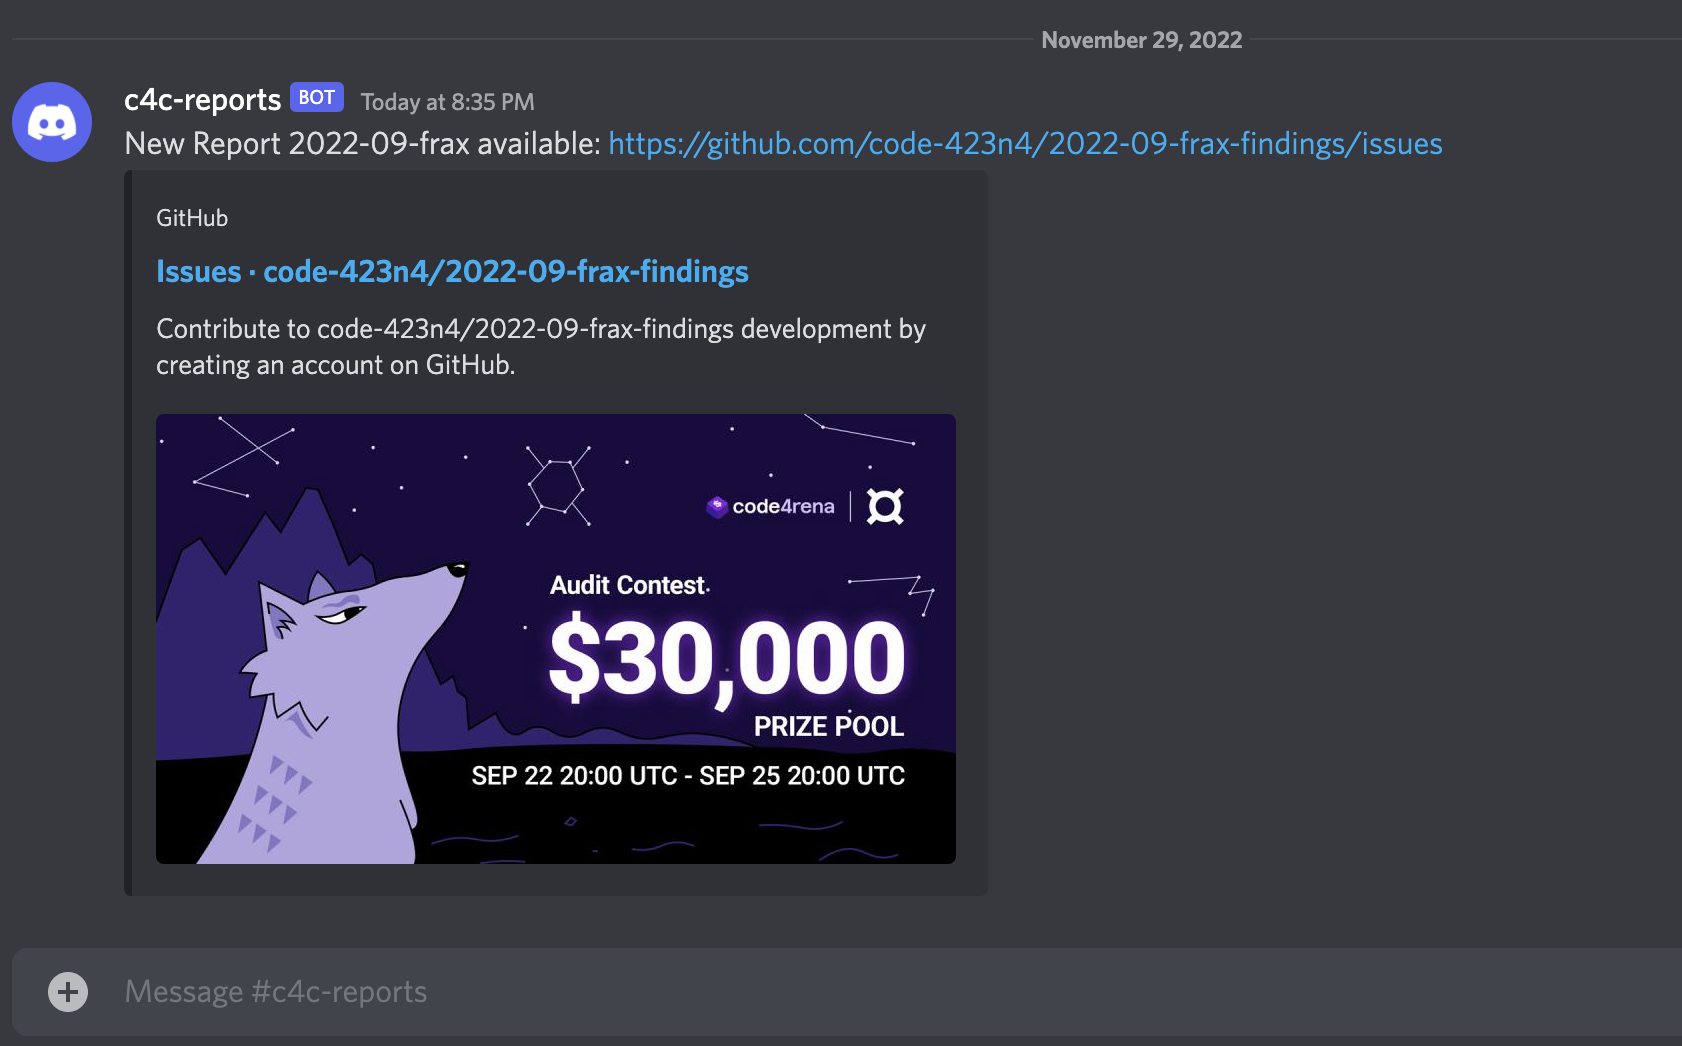
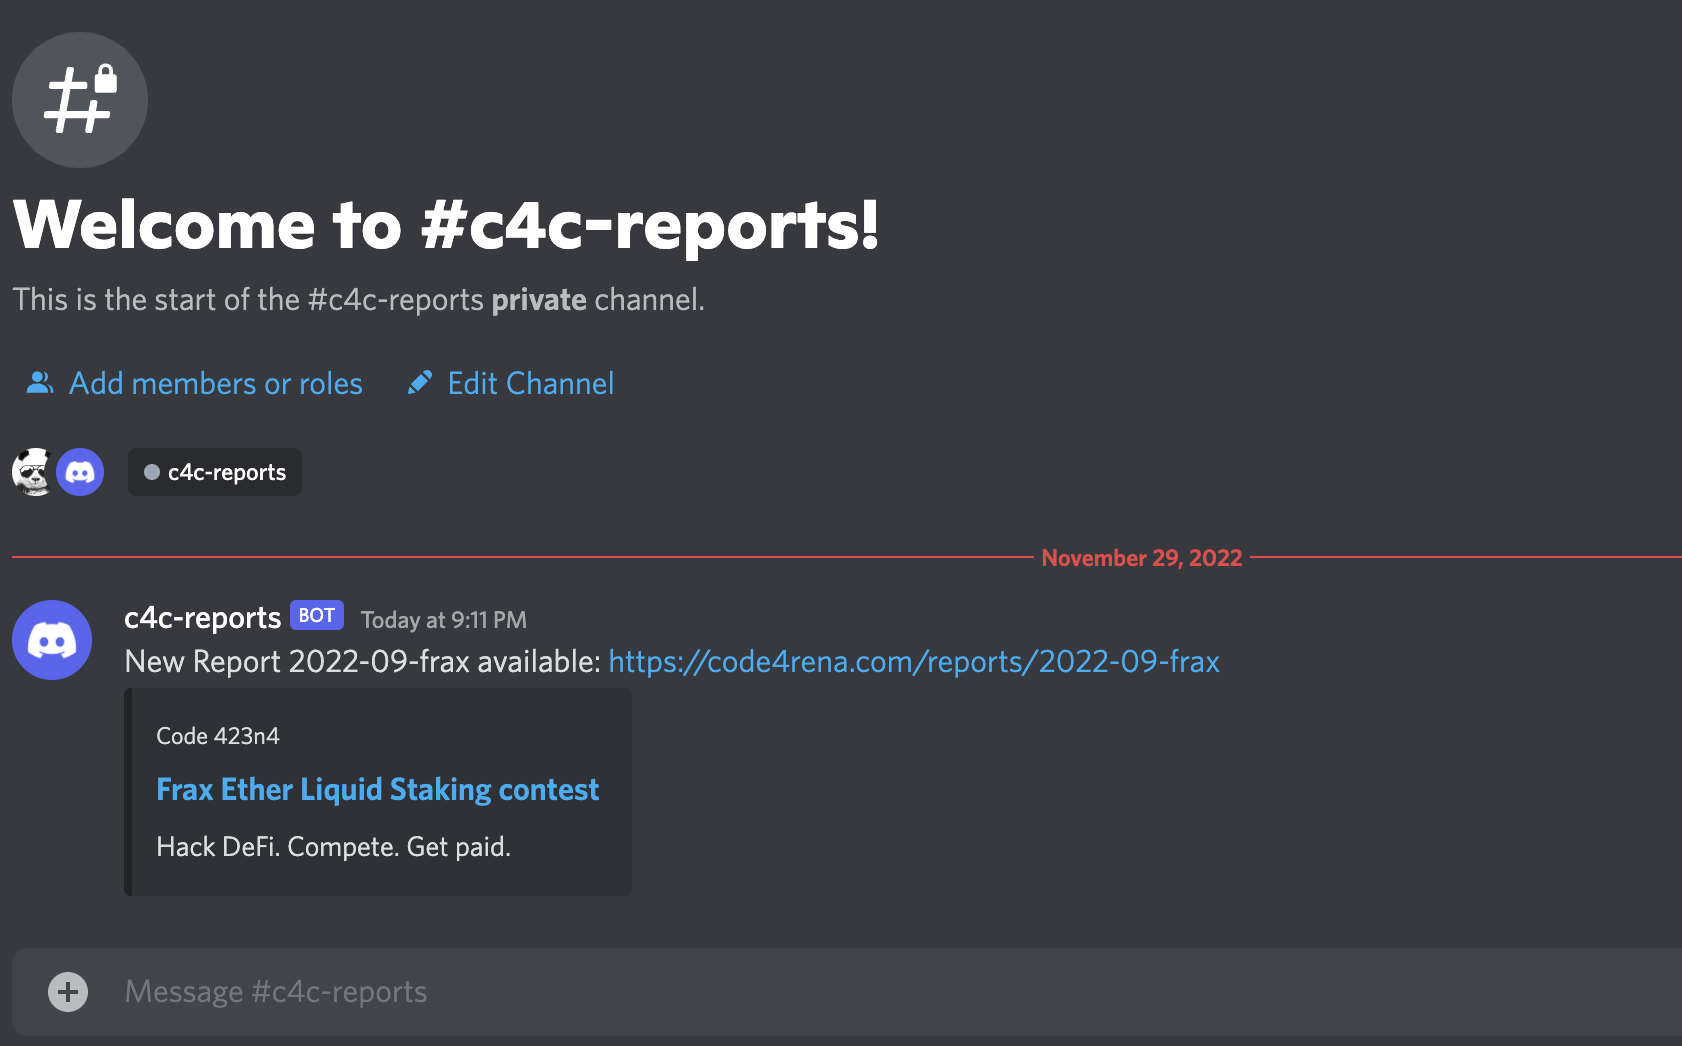
changed url to reports page and updated preview image

Changed region(s): [[0.0, 0.0306, 0.8656, 0.826], [0.6183, 0.5201, 0.742, 0.5507], [0.6183, 0.0306, 0.742, 0.0612]]

diff --git a/c4c/c4c.go b/c4c/c4c.go
@@ -53,7 +53,7 @@ func Start() error {
 					if config.DiscordConfig.Active {
 						err := discordbooter.SendMessage(
 							config.DiscordConfig.Channel,
-							"New Report "+data.Slug+" available: "+data.Findings,
+							"New Report "+data.Slug+" available: "+data.Site,
 						)
 						if err != nil {
 							logger.Error("failed to send to discord", zap.Error(err))
